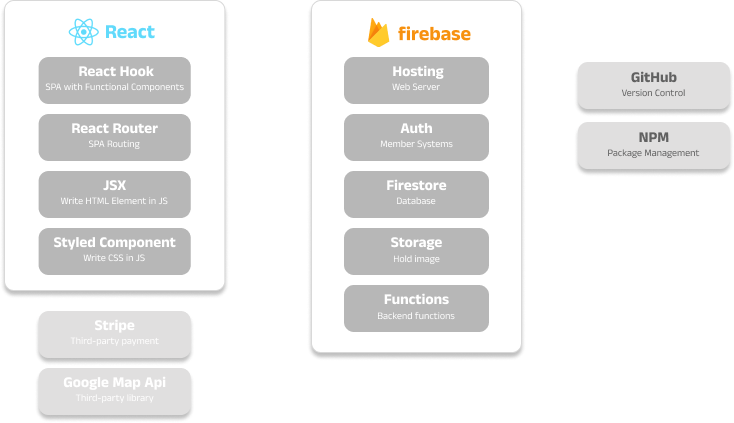
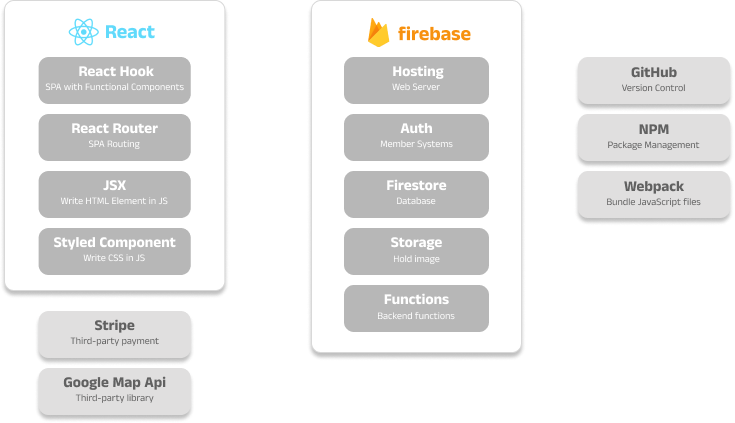
modify README

diff --git a/src/components/Diary.js b/src/components/Diary.js
@@ -39,10 +39,6 @@ const Diary = ({
     setDirty(true);
   };
 
-  //   useEffect(() => {
-  //     getDiaryURL(imgElement, i);
-  //   }, []);
-
   useEffect(() => {
     if (diaryLoad) {
       const reader = new FileReader();
@@ -51,7 +47,6 @@ const Diary = ({
       };
       reader.readAsDataURL(diaryLoad);
     }
-    // console.log(diaryLoad);
   }, [diaryLoad]);
 
   const getFile = async (e) => {
@@ -73,7 +68,6 @@ const Diary = ({
 
   const getDiaryURL = (imageElement, i) => {
     let imageName = diaries[i]["photo"];
-    // console.log(imageName);
     if (imageName) {
       getDownloadURL(ref(storage, `${uid}/${imageName}`))
         .then((url) => {
@@ -172,15 +166,12 @@ const StyledDiv = styled.div`
     justify-content: center;
     position: relative;
     cursor: pointer;
-    /* ${({ theme }) => theme.media.laptop`
-    width: 80%;`} */
   }
   .diaryImg {
     border-radius: 10px;
     object-fit: cover;
     width: 200px;
     height: 200px;
-    /* aspect-ratio: 3/2; */
   }
 
   .plus_icon {
@@ -235,7 +226,6 @@ const DiaryTextArea = styled.textarea`
   margin: 0 0 10px 0;
   width: 100%;
   padding: 5px;
-  /* aspect-ratio: 3/1; */
   white-space: pre-wrap;
   resize: none;
   border: none;

diff --git a/README.md b/README.md
@@ -33,6 +33,7 @@ Test Card:
   - [✤ Tech Stack](#-tech-stack)
   - [✤ Main Features](#-main-features)
   - [✤ Front-end Technique](#-front-end-technique)
+    - [Components Planning](#components-planning)
     - [React](#react)
     - [React Router](#react-router)
     - [Webpack \& Babel](#webpack--babel)
@@ -63,6 +64,13 @@ Test Card:
 7. Achieving real-time updates on matching status through Firestore onSnapshot.
 
 ## ✤ Front-end Technique
+
+### Components Planning
+
+<br/>
+<p> 
+<img src="./components.png" />
+<p>
 
 ### React
 
